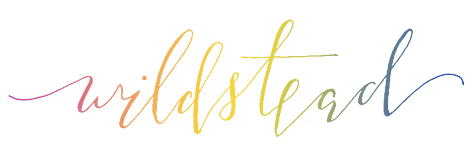
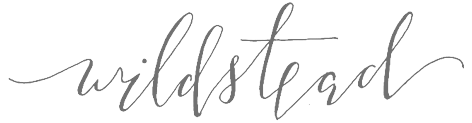
css
css shit

Changed region(s): [[0.0, 0.0244, 0.8898, 0.9756], [0.8898, 0.4634, 0.9788, 0.561], [0.9788, 0.5122, 1.0, 0.561]]

diff --git a/source/stylesheets/lib/common.css.scss b/source/stylesheets/lib/common.css.scss
@@ -20,7 +20,7 @@ body {
   border-top: solid $body-top-border-color 4px;
   color: #444;
   overflow: visible;
-  padding-top: 2.45em; // room for the nav, here
+  padding-top: 1em; 
   width: 100%;
 }
 
@@ -45,11 +45,11 @@ a, a:link, a:visited, a:hover, a:active, a:focus {
 
 header {
   background: url('/images/header2.png') 50% center no-repeat;
-  background-size: 250px auto;
+  background-size: 270px auto;
   height: 7em;
   margin: auto;
   text-indent: -10000px;
-  width: 70em;
+  width: 60em;
 
   a {
     display: block;
@@ -60,11 +60,11 @@ header {
 }
 
 nav {
-  border-top: solid #222 1px;
+  border-top: solid #ebebeb 1px;
   font-family: 'Vollkorn', 'Times', 'Times New Roman';
   font-weight: 400;
   margin: auto;
-  padding: 1em;
+  padding: 1em; // room for the nav, here
   width: 60em;
 
   a {
@@ -116,7 +116,7 @@ h1 {
     size: 2.2em;
     weight: 300;
   }
-  margin-top: 1em;
+  margin-top: 0em;
   text-align: center;
   
   &.tag {

diff --git a/source/stylesheets/lib/layout/aside.scss b/source/stylesheets/lib/layout/aside.scss
@@ -21,7 +21,7 @@ aside {
   h2 {
     border-top: solid #222 1px;
     color: #4e755e;
-    margin-top: 1.5em;
+    margin-top: 1em;
     padding: 1em 0.4em;
     text-transform: lowercase;
   }
